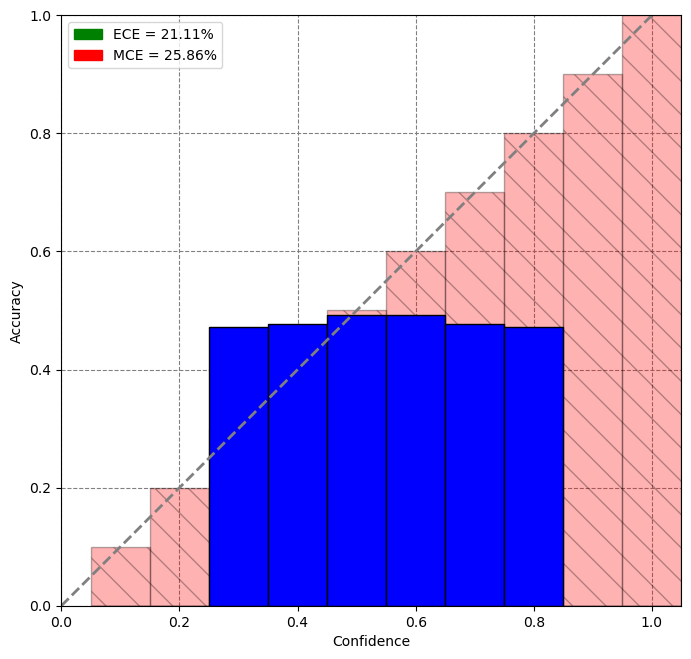
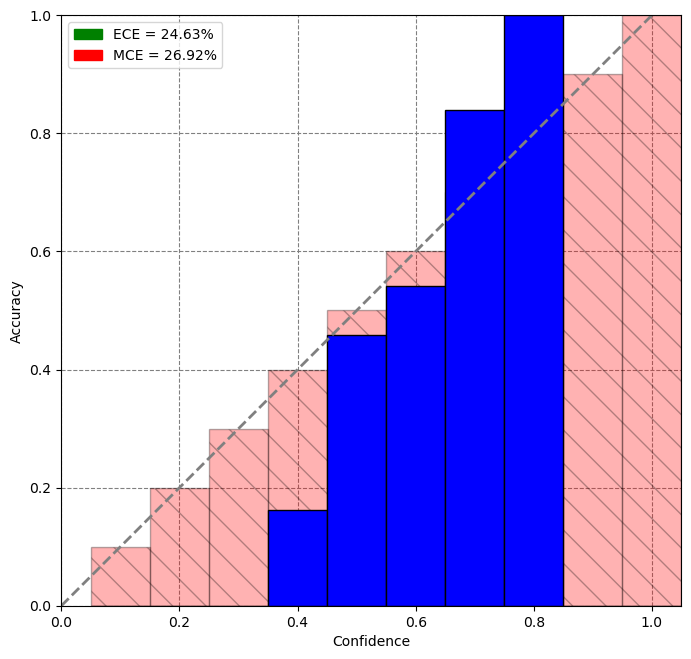
fixed somme issue with target in reliability diagram

Changed region(s): [[0.3039, 0.0, 0.8205, 0.9408], [0.2431, 0.0303, 0.3039, 0.091]]

diff --git a/age_estimation/stats.py b/age_estimation/stats.py
@@ -121,11 +121,9 @@ def mutual_information(preds):
 
 
 
-def calc_bins(preds,ages):
+def calc_bins(preds,targets):
   # Assign each prediction to a bin
-  preds_hard = torch.zeros_like(torch.tensor(preds))
-  preds_hard[ages>=36] = 1
-  labels_oneh = preds_hard
+  labels_oneh = F.one_hot(targets,2)
   num_bins = 10
   bins = np.linspace(0.1, 1, num_bins)
   binned = np.digitize(preds, bins)
@@ -143,10 +141,10 @@ def calc_bins(preds,ages):
 
   return bins, binned, bin_accs, bin_confs, bin_sizes
 
-def get_metrics(preds,ages):
+def get_metrics(preds,targets):
   ECE = 0
   MCE = 0
-  bins, _, bin_accs, bin_confs, bin_sizes = calc_bins(preds,ages)
+  bins, _, bin_accs, bin_confs, bin_sizes = calc_bins(preds,targets)
 
   for i in range(len(bins)):
     abs_conf_dif = abs(bin_accs[i] - bin_confs[i])
@@ -156,9 +154,9 @@ def get_metrics(preds,ages):
   return ECE, MCE
 import matplotlib.patches as mpatches
 
-def draw_reliability_graph(preds,ages):
-  ECE, MCE = get_metrics(preds,ages)
-  bins, _, bin_accs, _, _ = calc_bins(preds,ages)
+def draw_reliability_graph(preds,targets):
+  ECE, MCE = get_metrics(preds,targets)
+  bins, _, bin_accs, _, _ = calc_bins(preds,targets)
 
   fig = plt.figure(figsize=(8, 8))
   ax = fig.gca()
@@ -194,7 +192,7 @@ def draw_reliability_graph(preds,ages):
   
   plt.savefig('calibrated_network.png', bbox_inches='tight')
 
-def Stability(preds,targets):
+def Stability(preds):
   all_std = 0 
   for i in range(num_classes):
       single_std = preds[:,i].std(dim = 0)
@@ -209,6 +207,7 @@ def test(model, test_loader):
     all_ages = []
     all_features = []
     all_preds = []
+    all_targets = []
     with torch.no_grad():
         for batch_idx, (data, target, _) in enumerate(test_loader):
             data, age = data.to(device), target.to(device)
@@ -226,14 +225,16 @@ def test(model, test_loader):
             all_preds.append(pred.softmax(-1))
         
             total_elts += target.shape[0]
+            all_targets.append(target)
             if total_elts >= 10000:
                 break
-            
+        
     ages = torch.cat(all_ages).to("cpu") # all the ages associated with the samples
     features = torch.cat(all_features).to("cpu") # all the features
     preds = torch.cat(all_preds).to("cpu") # all the predictions
-    print("Stability",Stability(preds,target))
+    targets = torch.cat(all_targets).to("cpu")
+    print("Stability",Stability(preds))
     print("Mutual Information", mutual_information(preds))
-    draw_reliability_graph(preds.detach().numpy(),ages)
+    draw_reliability_graph(preds.detach().numpy(),targets.long())
 
 test(model,test_loader)
